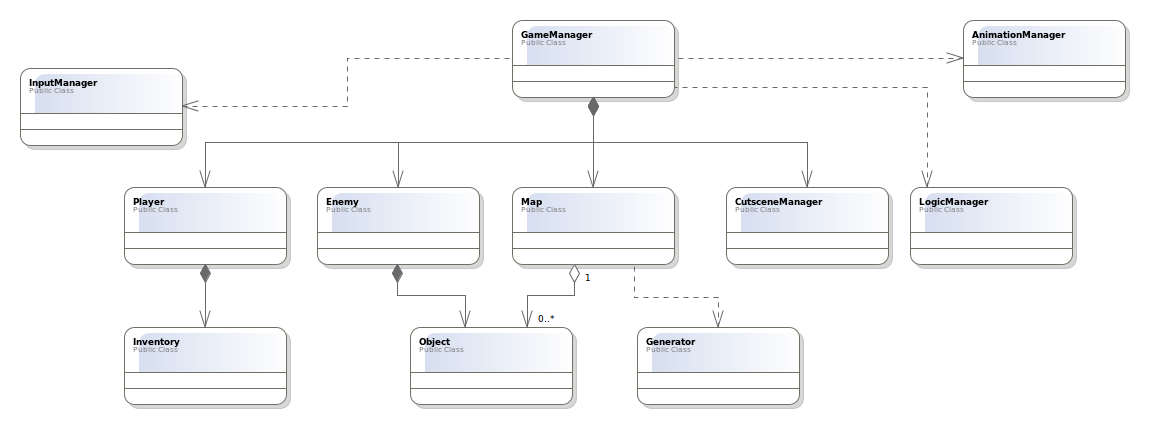
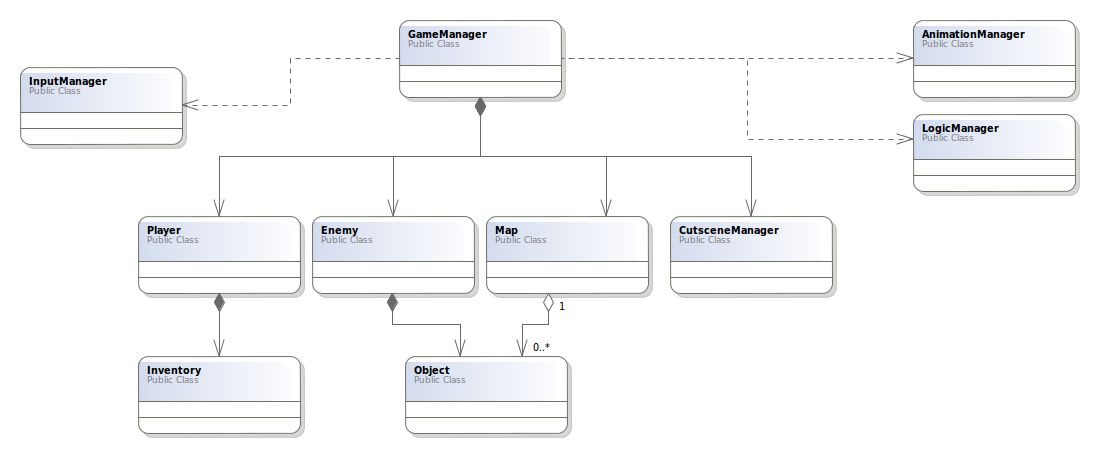
Re-re-added the ability to add doors to the map. Now, the class diagram, and the code are starting to line up. The Map class uses the Object class, and the diagram reflects it. Unfortunately, to prevent circular dependency, each class that needs an Object is going to have to contain one, and impleme

diff --git a/src/map.c b/src/map.c
@@ -1,5 +1,7 @@
 #include "map.h"
 #include "globals.h"
+#include "object.h"
+#include <stdbool.h>
 
 // Map compresipon size defines
 #define MODWIDTH	4U  // The number of tiles to be stored in a single unsigned char
@@ -12,28 +14,18 @@
 #define LEFT	2U
 #define RIGHT	3U
 
-
-// Object type that holds an item that will appear somewhere on the map.
-struct MapObject
-{
-	unsigned char ucX;
-	unsigned char ucY;
-	unsigned char ucType;
-};
-
-
 // 240 x 224 (30 x 28)
 unsigned char objMap[(MAPWIDTH/MODWIDTH)][MAPHEIGHT];
-struct MapObject    objEntrance;
-struct MapObject	objExit;
 
+struct MapObject objEntrance;
+struct MapObject objExit;
 
 
 // Internal function prototypes.
 static void DrawLine(unsigned char ucStartX, unsigned char ucStartY, unsigned char ucEndX, unsigned char ucEndY, unsigned char cTile);
 static void Draw(unsigned char ucX, unsigned char ucY, unsigned char ucType);
 static void FloodFill(unsigned char x, unsigned char y, unsigned char ucType);
-void AddDoor(unsigned char ucDirection);
+static void AddDoor(unsigned char ucDirection, bool bEntrance);
 
 
 ///****************************************************************************
@@ -122,8 +114,8 @@ void MAP_GenerateMap(unsigned char ucRoomType)
             DrawLine(ucWidth+1, (ucRoomOnePosition*(MAPHEIGHT-ucHeight)) + (ucHeight/2) + 1,
                      MAPWIDTH-ucWidth2-1, (ucRoomOnePosition*(MAPHEIGHT-ucHeight)) + (ucHeight/2) + 1, MT_WALL_MID);
 
-            //AddDoor(UP);
-            //AddDoor(DOWN);
+            AddDoor(UP, true);
+            AddDoor(DOWN, false);
         }
         else
         {//...we need to make a connecting hallway with a bend.
@@ -139,8 +131,8 @@ void MAP_GenerateMap(unsigned char ucRoomType)
                 DrawLine((ucWidth/2)+1, ucHeight, (ucWidth/2)+1, MAPHEIGHT-3, MT_WALL_TOP);
                 DrawLine((ucWidth/2)+1, MAPHEIGHT-3, MAPWIDTH-ucWidth2, MAPHEIGHT-3, MT_WALL_MID);
 
-                //AddDoor(UP);
-                //AddDoor(RIGHT);
+                AddDoor(UP, true);
+                AddDoor(RIGHT, false);
             }
             else
             {//...finally, room 2 must be on top.
@@ -153,8 +145,8 @@ void MAP_GenerateMap(unsigned char ucRoomType)
                 DrawLine((ucWidth/2)+1, MAPHEIGHT-ucHeight-1, (ucWidth/2)+1, 2, MT_WALL_TOP);
                 DrawLine((ucWidth/2)+2, 2, MAPWIDTH-ucWidth2-1, 2, MT_WALL_MID);
 
-                //AddDoor(RIGHT);
-                //AddDoor(LEFT);
+                AddDoor(RIGHT, true);
+                AddDoor(LEFT, false);
             }
         }
 
@@ -189,8 +181,8 @@ void MAP_GenerateMap(unsigned char ucRoomType)
             ucDoor2 = RandomNum(UP, RIGHT);
         }
         
-        //AddDoor(ucDoor);
-        //AddDoor(ucDoor2);
+        AddDoor(ucDoor, true);
+        AddDoor(ucDoor2, false);
     }
 
     // A long skinny room, with doors at opposite ends.
@@ -213,8 +205,8 @@ void MAP_GenerateMap(unsigned char ucRoomType)
             FloodFill(MAPWIDTH/2,MAPHEIGHT/2, MT_FLOOR);
 
             // And add the doors.
-            //AddDoor(LEFT);
-            //AddDoor(RIGHT);
+            AddDoor(LEFT, true);
+            AddDoor(RIGHT, false);
         }
         else
         {
@@ -233,8 +225,8 @@ void MAP_GenerateMap(unsigned char ucRoomType)
             FloodFill(MAPWIDTH/2,MAPHEIGHT/2, MT_FLOOR);
 
             // And add the doors.
-            //AddDoor(UP);
-            //AddDoor(DOWN);
+            AddDoor(UP, true);
+            AddDoor(DOWN, false);
         }
     }
 }
@@ -271,6 +263,12 @@ void MAP_DrawMyMap(void)
 		    }
 		}
 	}	
+}
+
+void MAP_DrawObjects(void)
+{
+    SetTile(objEntrance.ucX+3, objEntrance.ucY+7, objEntrance.ucType);
+    SetTile(objExit.ucX+3, objExit.ucY+7, objExit.ucType);    
 }
 
 
@@ -430,11 +428,10 @@ void FloodFill(unsigned char x, unsigned char y,
 	 {
          FloodFill(i, y + 1, ucType);
 	 }
-   }
- }
+    }
+}
 
-
-void AddDoor(unsigned char ucDirection)
+void AddDoor(unsigned char ucDirection, bool bEntrance)
 {
     // If our entry door is to be on the top, scan left to right, top to bottom for a spot
     // to add it.
@@ -444,9 +441,21 @@ void AddDoor(unsigned char ucDirection)
         {
             for(unsigned char i = 0; i < MAPWIDTH; i++)
             {
-                if((TileIs(i, j) == WALL_TOP) || (TileIs(i, j) == WALL_MIDDLE))
+                if((MAP_TileIs(i, j) == MT_WALL_TOP) || (MAP_TileIs(i, j) == MT_WALL_MID))
                 {
-                    Draw(i+RandomNum(3, 7), j, DOOR);
+                    if(bEntrance == true)
+                    {
+                        objEntrance.ucX = i+RandomNum(3, 7);
+                        objEntrance.ucY = j;
+                        objEntrance.ucType = DOOR;
+                    }
+                    else
+                    {
+                        objExit.ucX = i+RandomNum(3,7);
+                        objExit.ucY = j;
+                        objExit.ucType = DOOR;
+                    }
+                    
                     return;
                 }                
             }            
@@ -461,9 +470,21 @@ void AddDoor(unsigned char ucDirection)
         {
             for(unsigned char i = (MAPWIDTH-1); i > 0; i--)
             {
-                if((TileIs(i, j) == WALL_TOP) || (TileIs(i, j) == WALL_MIDDLE))
+                if((MAP_TileIs(i, j) == MT_WALL_TOP) || (MAP_TileIs(i, j) == MT_WALL_MID))
                 {
-                    Draw(i-RandomNum(1,4), j, DOOR);
+                    if(bEntrance == true)
+                    {
+                        objEntrance.ucX = i-RandomNum(1,4);
+                        objEntrance.ucY = j;
+                        objEntrance.ucType = DOOR;
+                    }
+                    else
+                    {
+                        objExit.ucX = i-RandomNum(1,4);
+                        objExit.ucY = j;
+                        objExit.ucType = DOOR;
+                    }
+
                     return;
                 }
             }
@@ -478,9 +499,21 @@ void AddDoor(unsigned char ucDirection)
         {
             for(unsigned char j = (MAPHEIGHT-1); j > 0; j--)
             {
-                if((TileIs(i, j) == WALL_TOP) || (TileIs(i, j) == WALL_MIDDLE))
+                if((MAP_TileIs(i, j) == MT_WALL_TOP) || (MAP_TileIs(i, j) == MT_WALL_MID))
                 {
-                    Draw(i, j-RandomNum(3,6), DOOR);
+                    if(bEntrance == true)
+                    {
+                        objEntrance.ucX = i;
+                        objEntrance.ucY = j-RandomNum(3,6);
+                        objEntrance.ucType = DOOR;
+                    }
+                    else
+                    {
+                        objExit.ucX = i;
+                        objExit.ucY = j-RandomNum(3,6);
+                        objExit.ucType = DOOR;
+                    }
+                    
                     return;
                 }
             }
@@ -495,9 +528,21 @@ void AddDoor(unsigned char ucDirection)
         {
             for(unsigned char j = (MAPHEIGHT-1); j > 0; j--)
             {
-                if((TileIs(i, j) == WALL_TOP) || (TileIs(i, j) == WALL_MIDDLE))
+                if((MAP_TileIs(i, j) == WALL_TOP) || (MAP_TileIs(i, j) == MT_WALL_MID))
                 {
-                    Draw(i, j-RandomNum(2,4), DOOR);
+                    if(bEntrance == true)
+                    {
+                        objEntrance.ucX = i;
+                        objEntrance.ucY = j-RandomNum(2,4);
+                        objEntrance.ucType = DOOR;
+                    }
+                    else
+                    {
+                        objExit.ucX = i;
+                        objExit.ucY = j-RandomNum(2,4);
+                        objExit.ucType = DOOR;
+                    }
+                
                     return;
                 }
             }

diff --git a/src/globals.c b/src/globals.c
@@ -1,0 +1,11 @@
+#include "globals.h"
+
+///****************************************************************************
+/// Generates random numbers starting at and including ucMin up to and 
+/// including ucMax, and returns the number.
+///****************************************************************************
+unsigned char RandomNum(unsigned char ucMin, unsigned char ucMax)
+{
+	return (unsigned char)(ucMin + rand() % ((ucMax - ucMin)+1));
+}
+

diff --git a/src/efd2.c b/src/efd2.c
@@ -57,6 +57,7 @@ int main(){
     MAP_InitializeMap();
 	MAP_GenerateMap(RandomNum(0,2));
 	MAP_DrawMyMap();
+	MAP_DrawObjects();
 
 	
 	while(1)
@@ -70,6 +71,7 @@ int main(){
    	        MAP_DrawMyMap();
 	        MAP_GenerateMap(RandomNum(0,2));
 	        MAP_DrawMyMap();
+	        MAP_DrawObjects();
 		}
 	}		
 	

diff --git a/src/map.h b/src/map.h
@@ -15,6 +15,7 @@
 void MAP_InitializeMap(void);
 void MAP_GenerateMap(unsigned char ucRoomType);
 void MAP_DrawMyMap(void);
+void MAP_DrawObjects(void);
 unsigned char MAP_TileIs(unsigned char ucX, unsigned char ucY);
 
 #endif
